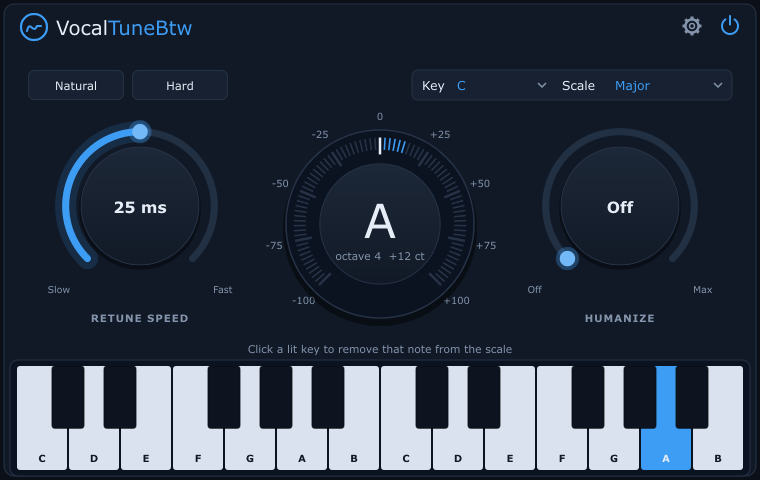
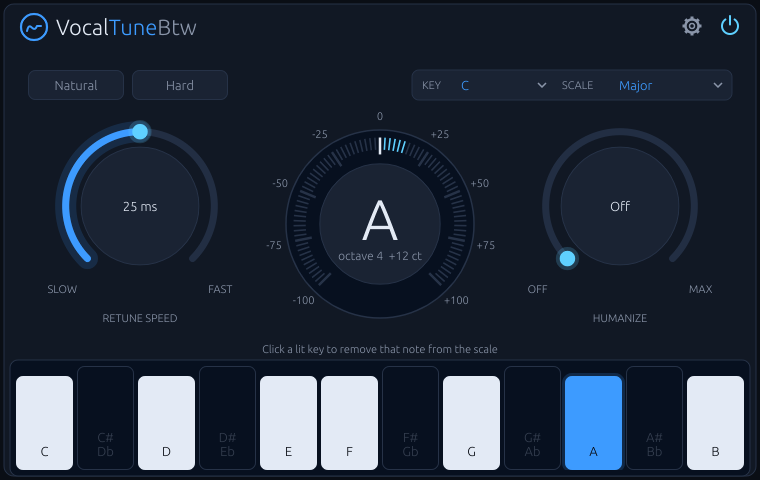
Release 0.2.0: PluginsBTW look and one-octave keyboard
Bump the version, add release notes, refresh the README screenshots and
text for the new interface, and note the M3 progress. The audio engine
is unchanged from 0.1.1.

diff --git a/README.md b/README.md
@@ -10,7 +10,7 @@ Standalone app.
 
 ![VocalTuneBtw correcting an A that is 12 cents sharp](docs/images/note.png)
 
-> **Status: early prototype (v0.1).** Detection, scale mapping, correction
+> **Status: early prototype (v0.2).** Detection, scale mapping, correction
 > and pitch shifting work and are covered by automated tests. It has been
 > used in Bitwig Studio but hasn't yet been evaluated systematically on
 > recorded vocals. See [docs/milestones.md](docs/milestones.md) for the
@@ -21,9 +21,9 @@ Standalone app.
 - **Key and scale snapping.** 12 root notes and 14 scales: Chromatic, Major,
   Natural/Harmonic/Melodic Minor, Dorian, Phrygian, Lydian, Mixolydian,
   Locrian, Major/Minor Pentatonic, Blues and Custom.
-- **Per-note control.** Click a lit key on the on-screen keyboard to remove
-  that note from the scale; the voice then snaps to the neighbouring notes
-  instead.
+- **Per-note control.** The keyboard shows one octave with every note once.
+  Click a lit key to remove that note from the scale; the voice then snaps to
+  the neighbouring notes instead. Click it again to bring it back.
 - **Retune Speed from 1 to 200 ms.** One-click **Natural** (50 ms, light
   humanize) and **Hard** (1 ms, no humanize) presets.
 - **Humanize.** Notes that are already close to the target are left alone,
@@ -53,7 +53,7 @@ Standalone app.
 | Control | Range | What it does |
 |---|---|---|
 | Key / Scale | 12 roots × 14 scales | The notes the voice is pulled to. |
-| Keyboard | per note | Lit keys are in the scale. Click one to switch that note off or on again. |
+| Keyboard | per note | One octave. Lit keys are in the scale; the note being corrected is blue. Click a key in the scale to switch it off (dark) or on again. |
 | Retune Speed | 1–200 ms | How fast the voice moves to the target. Low values give the hard, stepped effect. |
 | Humanize | Off–100 % | Deviations smaller than this are left uncorrected (0–50 cents). |
 | Natural / Hard | presets | Set Retune Speed and Humanize in one click. The active preset lights up. |
@@ -202,7 +202,9 @@ doesn't list the plugin twice.
 src/dsp/      pitch detection, scales, correction and shifting (no JUCE)
 src/plugin/   JUCE processor, parameters and editor
 src/ui/       look and feel, knobs, tuning meter, keyboard, main panel
-tests/        Catch2 tests: pitch accuracy, scales, correction, shifter, real-time safety
+tests/        Catch2 tests: pitch accuracy, scales, correction, shifter, real-time safety, clicks
+tools/        vtb-render: offline renderer with pitch-error and click metrics (no JUCE)
+assets/       the Ubuntu Light font and its licence
 docs/         architecture, milestones, licensing, screenshots
 scripts/      build script
 ```
@@ -226,6 +228,7 @@ Third-party code:
 | [clap-juce-extensions](https://github.com/free-audio/clap-juce-extensions) | MIT | CLAP wrapper (optional) |
 | CLAP, clap-helpers | MIT | CLAP interfaces (optional) |
 | [Catch2](https://github.com/catchorg/Catch2) 3.7.1 | BSL-1.0 | unit tests only, not shipped |
+| [Ubuntu](https://design.ubuntu.com/font) Light font | Ubuntu Font Licence 1.0 | the interface typeface, embedded in the editor |
 
 The dependency audit and what distributing binaries requires are in
 [docs/licensing.md](docs/licensing.md).

diff --git a/docs/release-notes/v0.2.0.md b/docs/release-notes/v0.2.0.md
@@ -1,0 +1,56 @@
+VocalTuneBtw: real-time pitch correction for monophonic vocals, built natively
+for Linux.
+
+**A new look.** 0.2.0 moves the interface to the shared PluginsBTW style and
+makes the note keyboard easier to read. The audio engine is unchanged from
+0.1.1, so corrected vocals sound exactly the same.
+
+![VocalTuneBtw correcting an A that is 12 cents sharp](https://raw.githubusercontent.com/PluginsBTW/VocalTuneBtw/v0.2.0/docs/images/note.png)
+
+This is an early prototype. Detection, scale snapping, correction and pitch
+shifting work and are covered by automated tests, and it has been used in
+Bitwig Studio. It hasn't yet been evaluated systematically on recorded vocals.
+
+## What's new
+
+- **One-octave keyboard.** Each note appears once, C to B, as twelve keys in a
+  row. Notes in the scale are lit, the note being corrected is blue, and notes
+  you switched off or that aren't in the scale are dark.
+- **PluginsBTW style.** The same colours and typeface (Ubuntu Light) as the
+  other PluginsBTW plugins, flat surfaces, uppercase captions, and a wordmark
+  in three colours.
+- **Select boxes and menus.** KEY, SCALE and Voice Range light up on hover,
+  and their menus open inside the plugin window with rounded corners.
+- **Offline renderer for developers.** `tools/vtb-render` runs a WAV file
+  through the engine without a host and reports pitch error and clicks. A new
+  test checks the whole engine for clicks on a synthetic sung phrase.
+
+## Download and install
+
+Download `VocalTuneBtw-0.2.0-linux-x86_64.tar.gz` below, then:
+
+```bash
+tar -xzf VocalTuneBtw-0.2.0-linux-x86_64.tar.gz
+mkdir -p ~/.vst3 && cp -r VocalTuneBtw-0.2.0-linux-x86_64/VocalTuneBtw.vst3 ~/.vst3/
+```
+
+Rescan plugins in your host. Plugin IDs and parameters are unchanged, so
+projects saved with 0.1.x still load. The archive also contains a Standalone
+app (`VocalTuneBtw`) that runs without a host.
+
+Requirements: Linux on x86-64 with glibc 2.43 or newer and libstdc++ from
+GCC 13.2 or newer, plus ALSA, FreeType and fontconfig. This build was made on
+Arch Linux, so it runs on Arch and other up-to-date rolling distributions.
+It won't load on older systems such as Ubuntu 24.04 or Debian 12; there,
+build from source (see below).
+
+Only VST3 and Standalone are included. CLAP builds from source but hasn't been
+tested in a host yet.
+
+## Licence
+
+AGPL-3.0-or-later. The source for this release is the
+[`v0.2.0` tag](https://github.com/PluginsBTW/VocalTuneBtw/tree/v0.2.0); build
+instructions are in the [README](https://github.com/PluginsBTW/VocalTuneBtw#building).
+Licences of the third-party code and the font in the binaries are in the
+archive under `third-party-licenses/`.

diff --git a/docs/milestones.md b/docs/milestones.md
@@ -24,7 +24,7 @@ checked against something we can measure.
 - Write `docs/dsp-evaluation.md` with objective numbers (pitch error, latency,
   CPU per instance).
 
-## M3 — Custom UI *(first pass done: knobs, cents meter, note keyboard, settings overlay)*
+## M3 — Custom UI *(second pass in v0.2.0: PluginsBTW styling, one-octave note keyboard, rounded menus. Open: pitch-history trace, keyboard accessibility)*
 
 - Dark navy and blue design: root and scale selectors, a piano-key note
   mask editor, rotary knobs for speed, detune and strength.
